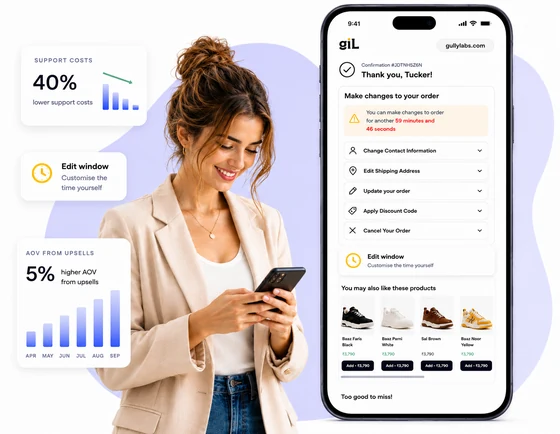
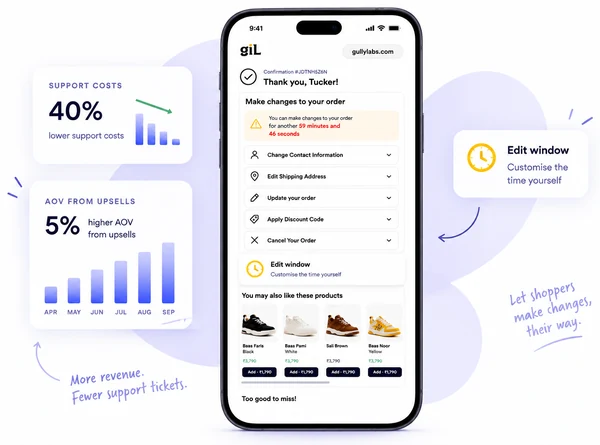
The new art goes in the hero
Replaces the old hero composite at the same two filenames, so the srcset
did not change - but the intrinsic sizes did: 600x445 at 1x and 1200x890 at
2x, against 560x434 and 1120x868.

Trimmed before export. Content ran x 72..1414 and y 21..1020 of the
1536x1024 original, so 122px of the right edge and 72 of the left were
empty; cropped with an even 16px of room where there was room to give,
which takes the frame from 1.50:1 to 1.35 - near enough the 1.29 the old
art had that the column beside it did not move. 600 wide because the hero
row is 1216 with a 592 column and a 24 gap.

WebP at 88: 26KB and 69KB, against the 1.28MB PNG.

The alt is rewritten, because the picture is not the one it described. The
old one had a shopper on the page; this is the phone alone, with the two
floating figures, the Edit window callout and the two handwritten lines,
all of which are now in the alt.

Verified against a cache-disabled load - the first run reported the old
560x434 out of the browser's disk cache.

diff --git a/index.html b/index.html
@@ -1571,7 +1571,7 @@
       </div>
 
       <div style="width: 560px; flex-shrink: 0; display: flex; justify-content: flex-start; align-items: center;">
-        <img src="assets/hero-home.webp" srcset="assets/hero-home.webp 560w, assets/hero-home@2x.webp 1120w" sizes="560px" alt="A shopper on the Gully Labs thank-you page, editing her order: a countdown on how long it stays editable, rows for contact details, shipping address, order changes, discount codes and cancellation, with recommended trainers below. Floating cards read 40% lower support costs and 5% higher AOV from upsells." width="560" height="434" style="width: 560px; max-width: 100%; height: auto; display: block;">
+        <img src="assets/hero-home.webp" srcset="assets/hero-home.webp 600w, assets/hero-home@2x.webp 1200w" sizes="600px" alt="The Gully Labs thank-you page on a phone: a countdown on how long the order stays editable, rows for contact details, shipping address, order changes, discount codes and cancellation, and recommended trainers below. Floating cards read 40% lower support costs and 5% higher AOV from upsells, a callout explains that the edit window is yours to set, and two handwritten lines read “Let shoppers make changes, their way” and “More revenue. Fewer support tickets.”" width="600" height="445" style="width: 600px; max-width: 100%; height: auto; display: block;">
       </div>
     </div>
   </section>
